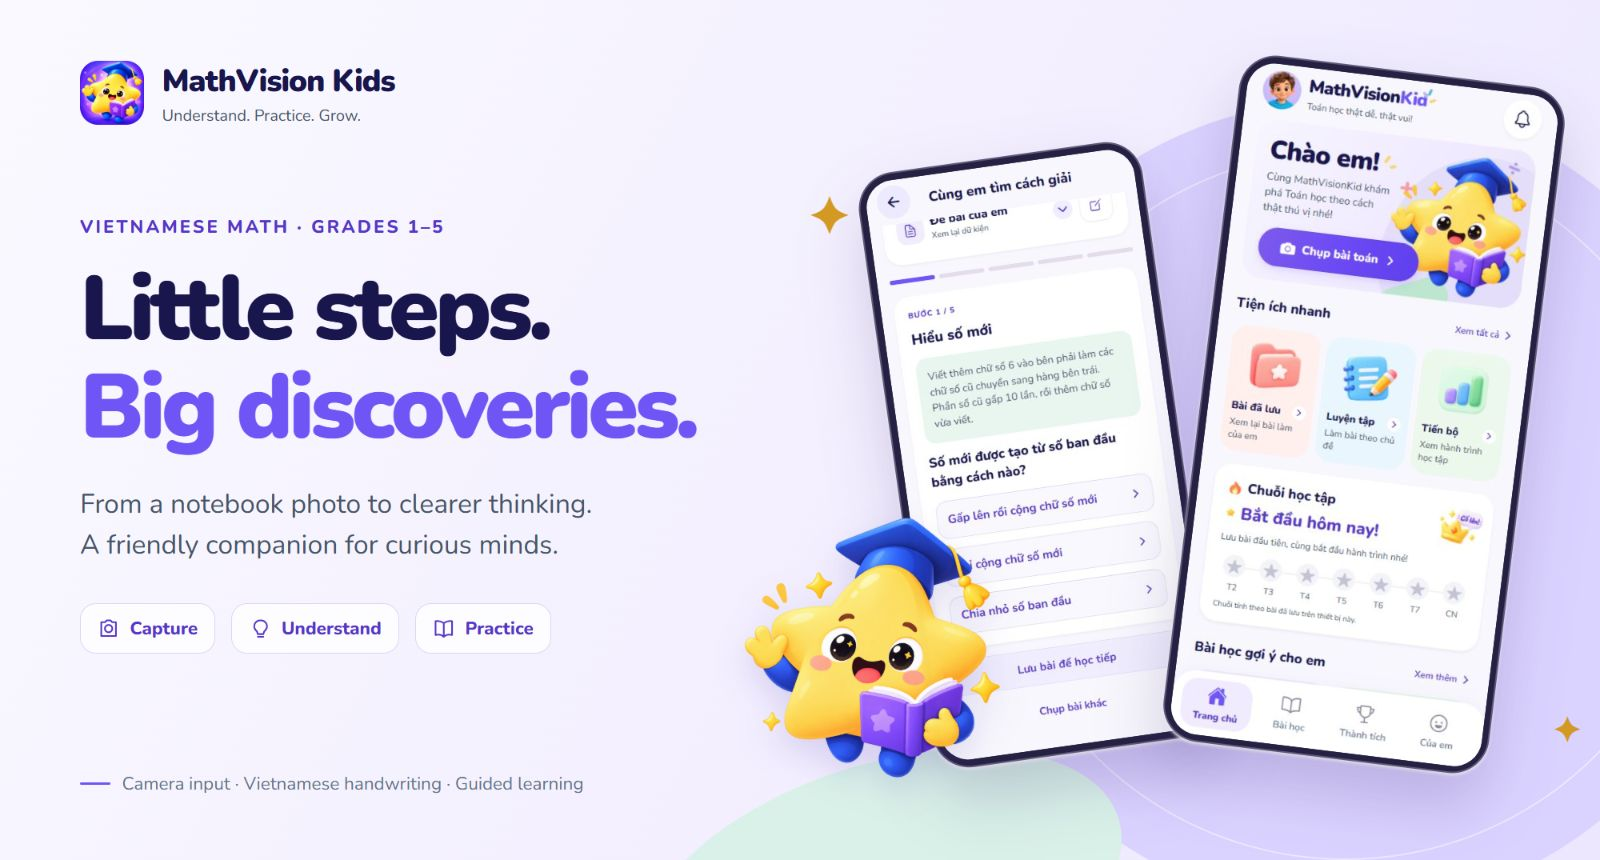
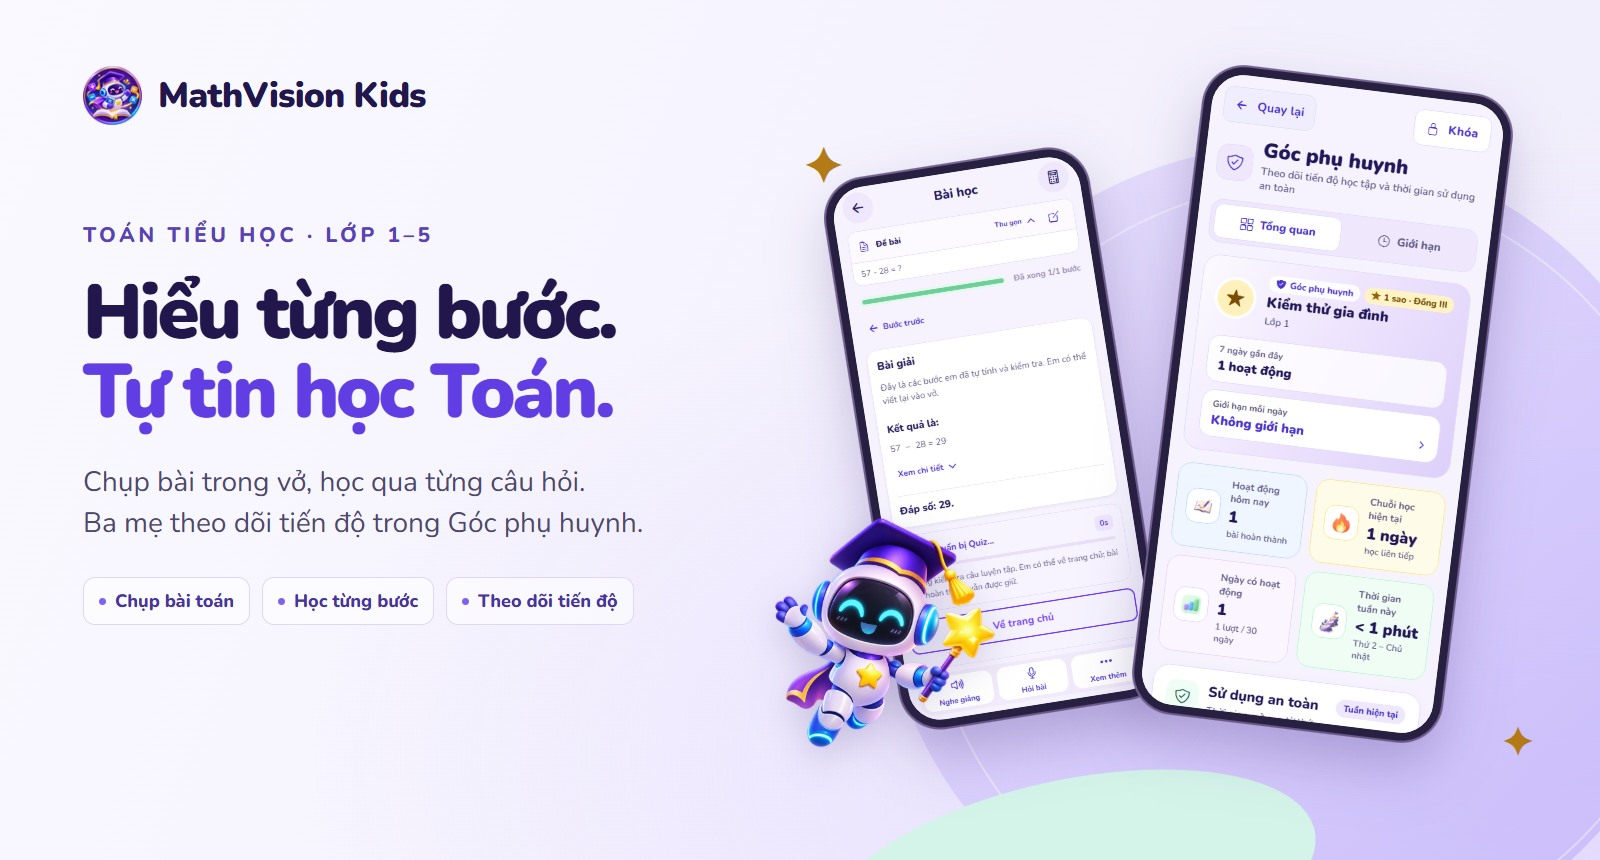
docs: design a cover with the robot and current app screens

diff --git a/README.md b/README.md
@@ -1,6 +1,6 @@
 <div align="center">
 
-![MathVision Kids — Little steps. Big discoveries.](docs/media/readme-hero.jpg)
+![MathVision Kids — Hiểu từng bước, tự tin học Toán. Hai màn hình giới thiệu bài học và Góc phụ huynh.](docs/media/readme-hero.jpg)
 
 # MathVision Kids
 
